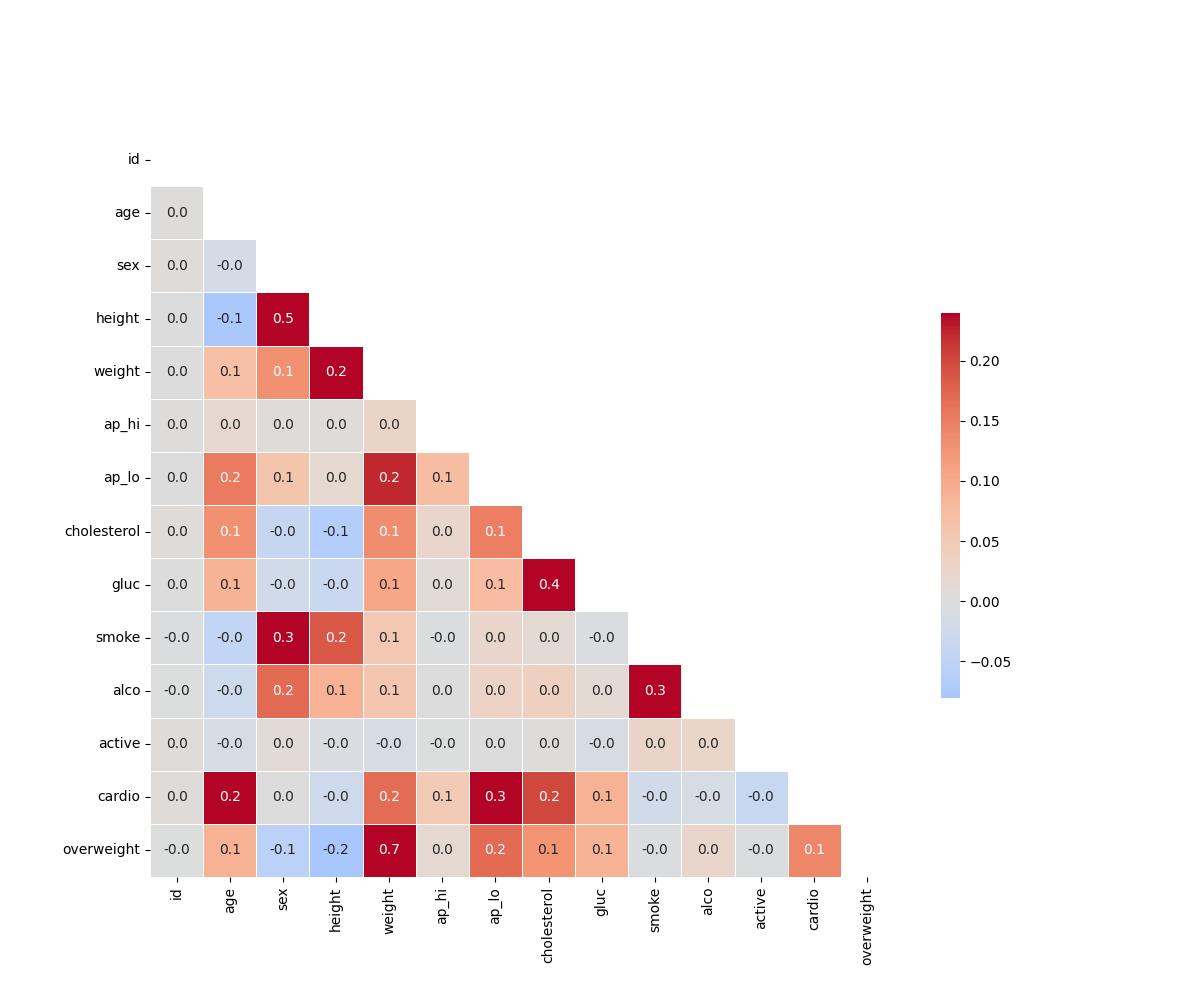
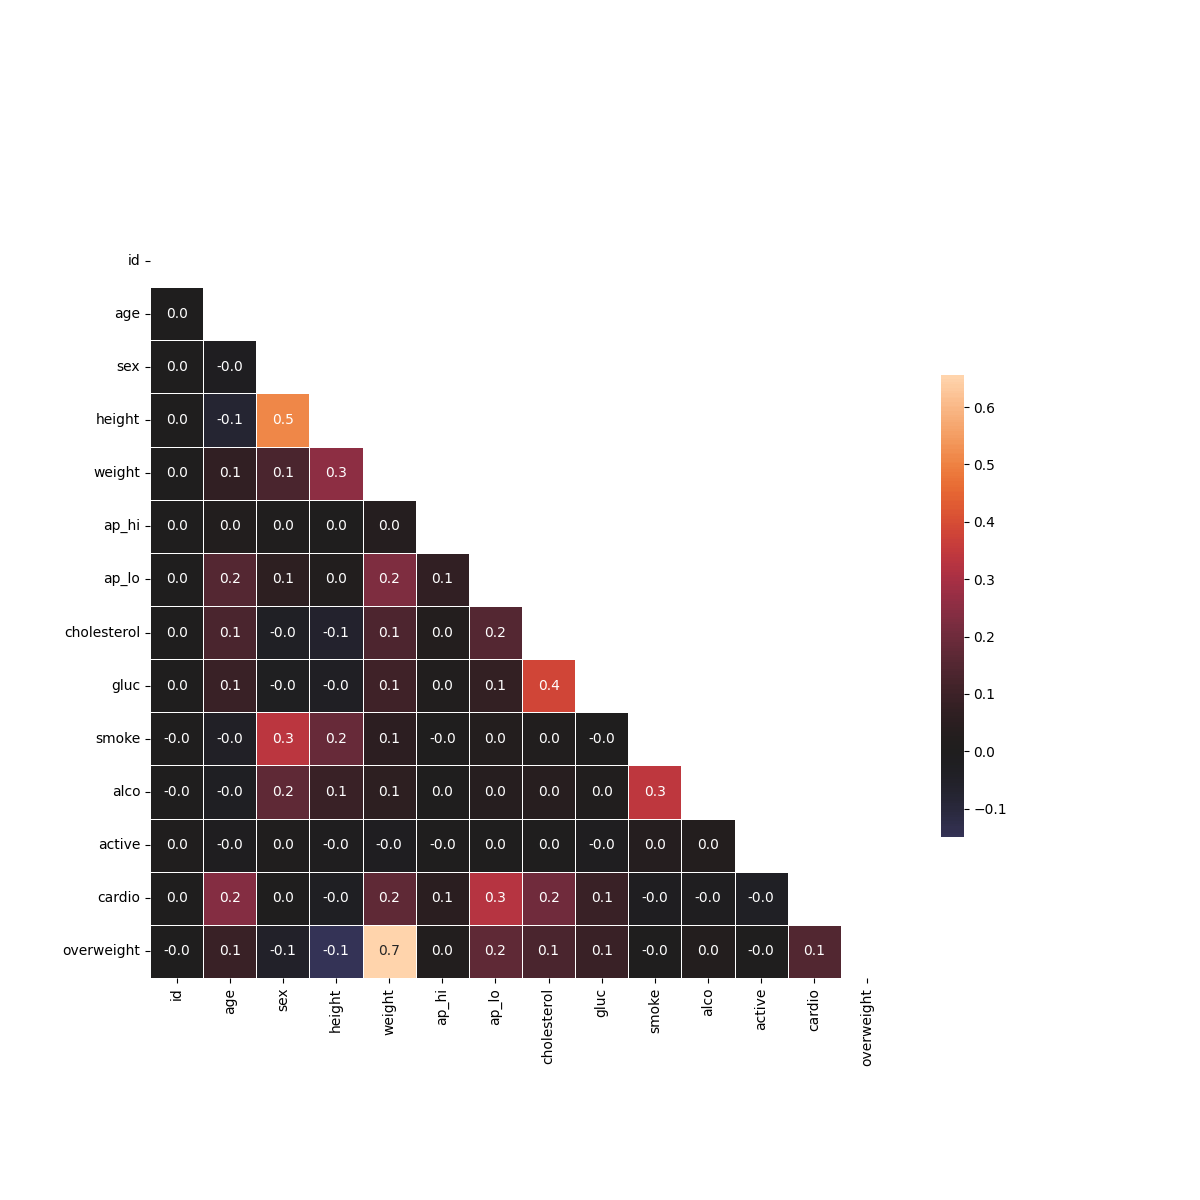
Fixed heatmap data calculation

Changed region(s): [[0.0617, 0.186, 0.74, 0.961], [0.7708, 0.31, 0.8325, 0.713]]

diff --git a/medical_data_visualizer.py b/medical_data_visualizer.py
@@ -13,7 +13,6 @@ df['gluc'] = (df['gluc'] > 1).astype(int)
 
 
 def draw_cat_plot():
-    
     df_cat = pd.melt(df, id_vars='cardio', value_vars=['cholesterol', 'gluc', 'smoke', 'alco', 'active', 'overweight'])
 
     fig = sns.catplot(
@@ -31,20 +30,25 @@ def draw_cat_plot():
 
 
 def draw_heat_map():
-
-    df_heat = df[df['ap_lo'] <= df['ap_hi']]
-    df_heat = df_heat[df_heat['height'] >= df_heat['height'].quantile(0.025)]
-    df_heat = df_heat[df_heat['height'] <= df_heat['height'].quantile(0.975)]
-    df_heat = df_heat[df_heat['weight'] >= df_heat['weight'].quantile(0.025)]
-    df_heat = df_heat[df_heat['weight'] <= df_heat['weight'].quantile(0.975)]
+    df_heat = df[
+        (df['ap_lo'] <= df['ap_hi']) &
+        (df['height'] >= df['height'].quantile(0.025)) &
+        (df['height'] <= df['height'].quantile(0.975)) &
+        (df['weight'] >= df['weight'].quantile(0.025)) &
+        (df['weight'] <= df['weight'].quantile(0.975))
+    ]
 
     corr = df_heat.corr()
 
-    mask = np.triu(np.ones_like(corr, dtype=bool))
+    mask = np.triu(corr)
 
-    fig, ax = plt.subplots(figsize=(12, 10)) 
+    fig, ax = plt.subplots(figsize=(12, 12))
 
-    sns.heatmap(corr, mask=mask, annot=True, fmt='.1f', cmap='coolwarm', vmin=-0.08, vmax=0.24, center=0, square=True, linewidths=.5, cbar_kws={"shrink": .5}, ax=ax)
+    sns.heatmap(
+        corr, mask=mask, annot=True, fmt='.1f', 
+        center=0, square=True, linewidths=.5, 
+        cbar_kws={'shrink': .5}
+    )
 
     fig.savefig('heatmap.png')
     return fig
